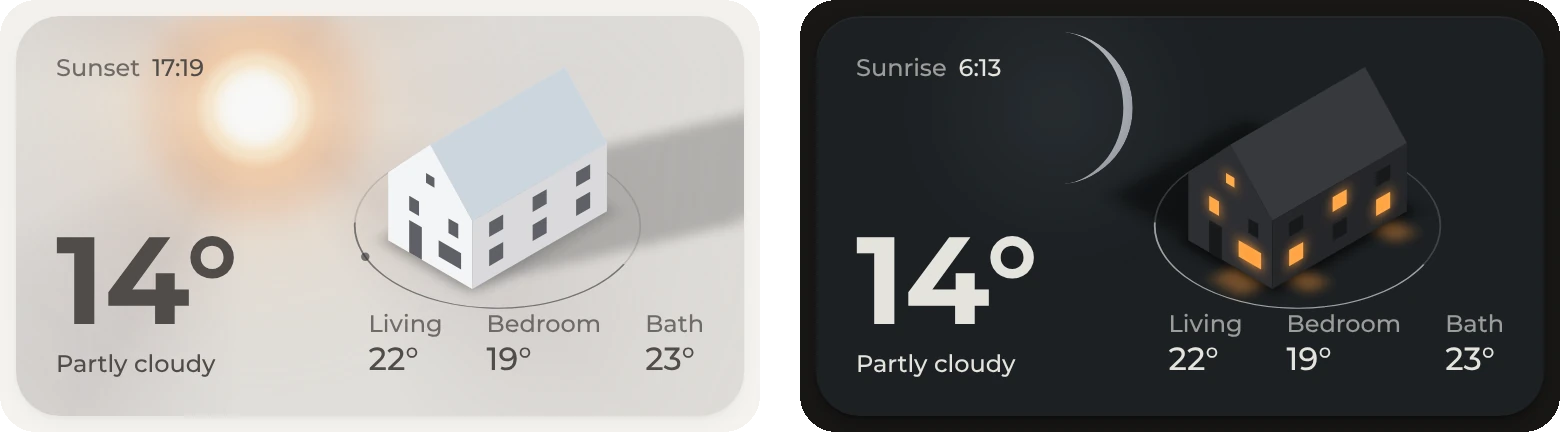
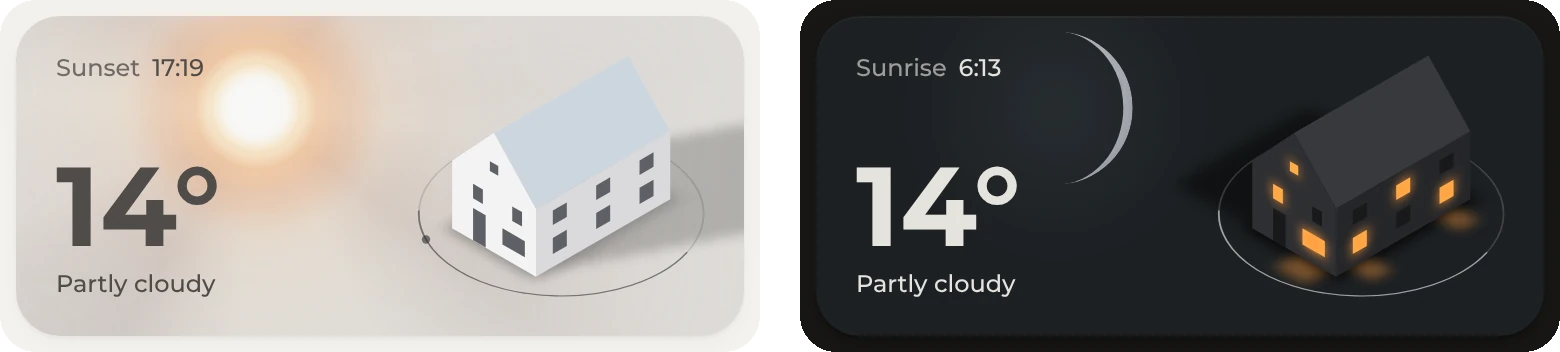
Even out the weather card and mark desktop as unfinished
The house sits 20 px from the top, right and bottom edge, like the text,
on a lower card without the room temperatures. The desktop screenshot
and the desktop notes are gone, since the dashboard is made for phones.

diff --git a/docs/dashboard.md b/docs/dashboard.md
@@ -1,6 +1,6 @@
 # Dashboard parts
 
-One sections view: a single column on phones, two on larger screens. Here's how each part works and which entities it reads. Every part starts with a comment in [`dashboard.yaml`](../dashboard/dashboard.yaml), like `# Favorites`, so you can find and copy it.
+One sections view, made for phones. The desktop layout is still a work in progress. Here's how each part works and which entities it reads. Every part starts with a comment in [`dashboard.yaml`](../dashboard/dashboard.yaml), like `# Favorites`, so you can find and copy it.
 
 Cards that show a state get it from a [helper](helpers.md) or a module, so they stay simple. Some ways of building a dashboard add lag on the first load, where you can watch the layout build itself, card-mod or template cards for example. Everything here avoids that, which sometimes leads to unusual solutions. More in [Patterns](patterns.md).
 
@@ -30,21 +30,19 @@ The notifications list a few more entities: weather warnings, the calendar, a ti
 
 ## Weather
 
-An [Origami Weather](https://github.com/hazymorning/origami_weather) card: a calm colour per condition, the house, and the temperatures that matter.
+An [Origami Weather](https://github.com/hazymorning/origami_weather) card: a calm colour per condition, the house and the temperature.
 
 <img width="800" alt="The weather card in daylight and at night" src="../images/weather.webp">
 
 - Each condition has its own background colour for light and dark mode, set in `background_thresholds`. Clouds, stars, birds, balloons and planes are off.
 - Top left is the next sunset, or the next sunrise while the sun is down. They are two buttons with a visibility condition on `sun.sun`.
 - The large number is the weather entity's temperature. For an outdoor sensor of your own, give that text element an `entity` instead of the `attribute`.
-- Bottom right are three rooms, each a [climate helper](helpers.md#room-climate-sensor) with a label.
-- The house is the card's demo house. The dashboard this comes from has a drawing of the actual home instead, with a lit window per room while its lights are on. The [Origami Weather readme](https://github.com/hazymorning/origami_weather#layouts) explains how to make one.
+- The house is the card's demo house, 20 px from the top, right and bottom edge, like the text. The dashboard this comes from has a drawing of the actual home instead, with a lit window per room while its lights are on. The [Origami Weather readme](https://github.com/hazymorning/origami_weather#layouts) explains how to make one. A picture of your own needs its own offsets.
 
 | Entity | For |
 | --- | --- |
 | `weather.home` | Condition, background colour and temperature |
 | `sun.sun` | Next sunset or sunrise |
-| `sensor.climate_living_room`, `sensor.climate_bedroom`, `sensor.climate_bathroom` | The three rooms |
 
 ## Favorites
 
@@ -74,7 +72,6 @@ A header with the home's average and the open windows, a climate table that fold
 - The zebra stripes are one gradient on the row background, sized to the row height.
 - Each room card is a paper-buttons-row. The icon chip lights up while the room's lights are on, the dot shows the comfort colour. The whole card opens the room's pop-up, the window icon has its own tap.
 - The first four rooms always show. **All rooms** toggles `input_boolean.all_rooms` for the rest.
-- On larger screens a status row with the people at home, the front door and the open windows sits above the header.
 
 | Entity | For |
 | --- | --- |
@@ -98,7 +95,6 @@ A [Navbar Card](https://github.com/joseluis9595/lovelace-navbar-card) at the bot
 - The badges count playing speakers and lights that are on. Each badge cuts a small gap into the route's field.
 - Holding **Lights** opens the scenes. The active scene is amber.
 - Above the bar, Navbar Card's media player shows the speaker that matters right now, picked by `sensor.active_speaker`. A link badge on the cover marks a group, and a hold on **Music** plays or pauses.
-- On larger screens the bar sits at the right edge.
 
 | Entity | For |
 | --- | --- |
@@ -110,7 +106,3 @@ A [Navbar Card](https://github.com/joseluis9595/lovelace-navbar-card) at the bot
 | `scene.living_room_*`, `sensor.living_room_scene` | The scenes and the active one |
 
 <img width="600" alt="The scenes that open from the lights route" src="../images/navbar-scenes.webp">
-
-## On a larger screen
-
-<img width="800" alt="The dashboard on a desktop screen" src="../images/desktop.webp">

diff --git a/README.md b/README.md
@@ -10,7 +10,7 @@ A chill Home Assistant theme, a set of Bubble Card modules made for it, and the 
 - Nothing jumps while the dashboard loads
 
 > [!NOTE]
-> This is a personal dashboard that has grown over years. Some things are done in very specific ways, mostly to avoid layout shifts. Take what you like.
+> This is a personal dashboard that has grown over years. Some things are done in very specific ways, mostly to avoid layout shifts. It's made for phones, a desktop layout is still in the works. Take what you like.
 
 [Theme only](#theme-only) · [Whole dashboard](#whole-dashboard) · [Troubleshooting](#troubleshooting) · [Reference](#reference)
 
@@ -222,3 +222,4 @@ Origami Header replaces the header, and edit mode is in its menu. **More** in th
 - [x] Theme, setup, dashboard and helpers
 - [x] Bubble modules, still experimental
 - [ ] Pop-ups: rooms, music, TV, favorites, lights and the rest
+- [ ] Desktop layout

diff --git a/docs/helpers.md b/docs/helpers.md
@@ -4,7 +4,7 @@ Template sensors do the thinking, the cards only show the result. All of them an
 
 | Helper | Gives | Read by |
 | --- | --- | --- |
-| `sensor.climate_<room>` | Rounded temperature and humidity, rank, comfort colour | Climate table, room cards, weather |
+| `sensor.climate_<room>` | Rounded temperature and humidity, rank, comfort colour | Climate table, room cards |
 | `sensor.climate_temperature_peaks`, `sensor.climate_humidity_peaks` | Warmest and most humid room, the lowest as attribute | The room sensors |
 | `sensor.temperature_average`, `sensor.humidity_average` | Averages over all rooms | `sensor.climate_home` |
 | `sensor.climate_home` | Averages, open windows, front door | Rooms header, status row |
